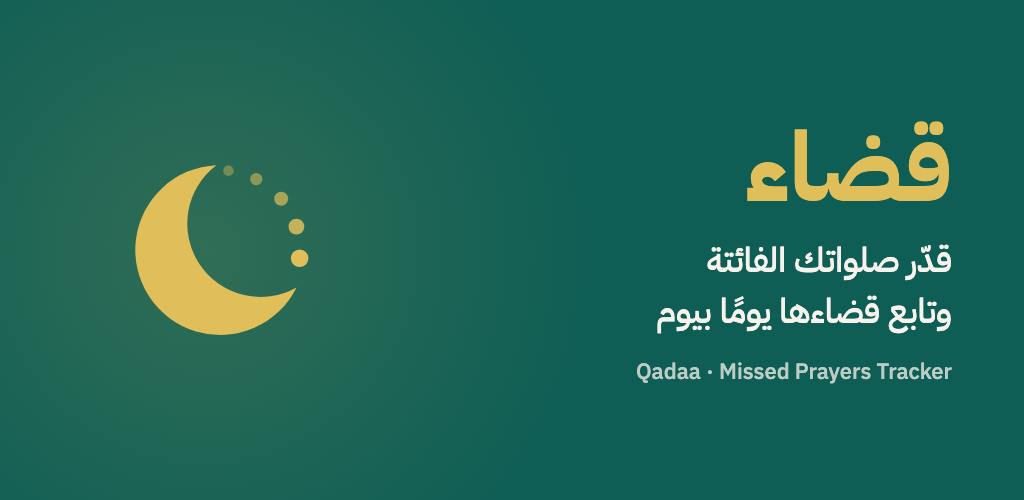
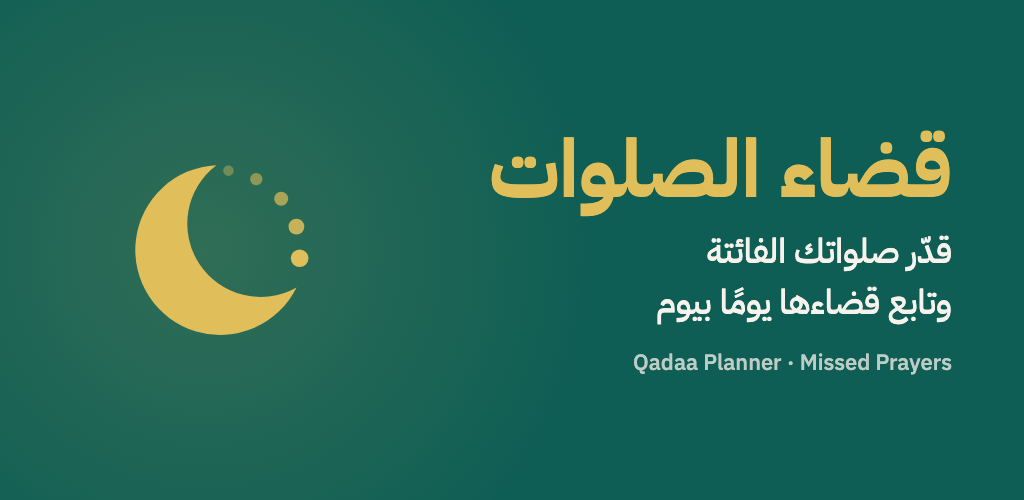
docs(store): feature graphic with the new name
قضاء الصلوات / Qadaa Planner (decision 39). Re-rendered at 1024x500
with headless Chrome from design/feature-graphic.html.

Changed region(s): [[0.4688, 0.24, 0.9375, 0.45], [0.625, 0.45, 0.9375, 0.66], [0.5938, 0.69, 0.9375, 0.78]]

diff --git a/design/feature-graphic.html b/design/feature-graphic.html
@@ -4,11 +4,11 @@
 html,body{margin:0;width:1024px;height:500px;overflow:hidden}
 body{background:#0F5E55;font-family:Plex;color:#F7F3EC;display:flex;align-items:center;justify-content:space-between;padding:0 72px;box-sizing:border-box;
 background-image:radial-gradient(circle at 20% 50%,rgba(224,190,90,.16),transparent 45%)}
-h1{font-size:96px;margin:0;color:#E0BE5A;line-height:1.2}
+h1{font-size:80px;margin:0;color:#E0BE5A;line-height:1.2}
 p{font-size:34px;margin:8px 0 0;font-weight:500;line-height:1.5}
 small{display:block;font-size:22px;opacity:.75;margin-top:18px;font-weight:500;direction:ltr;text-align:right}
 img{width:300px;height:300px}
 </style></head><body>
-<div><h1>قضاء</h1><p>قدّر صلواتك الفائتة<br>وتابع قضاءها يومًا بيوم</p><small>Qadaa · Missed Prayers Tracker</small></div>
+<div><h1>قضاء الصلوات</h1><p>قدّر صلواتك الفائتة<br>وتابع قضاءها يومًا بيوم</p><small>Qadaa Planner · Missed Prayers</small></div>
 <img src="fg.svg">
 </body></html>
